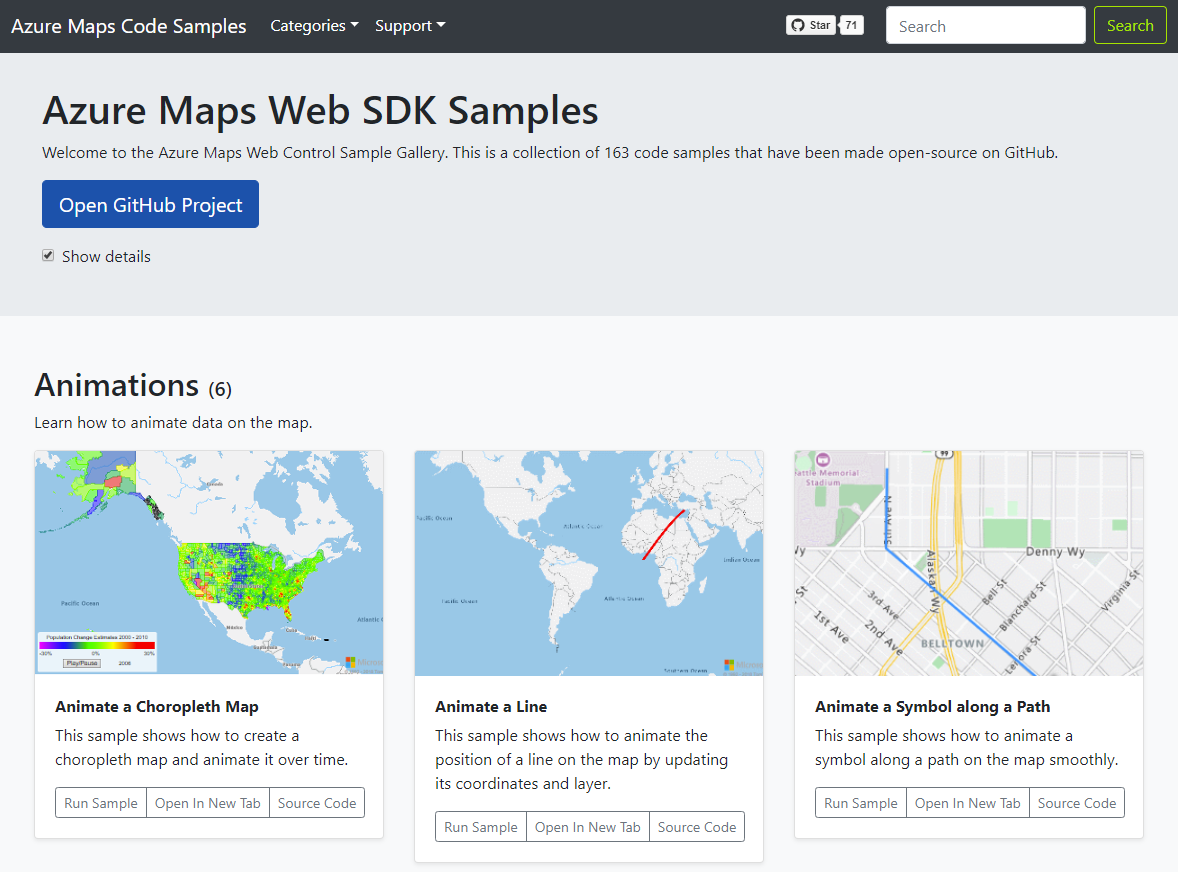
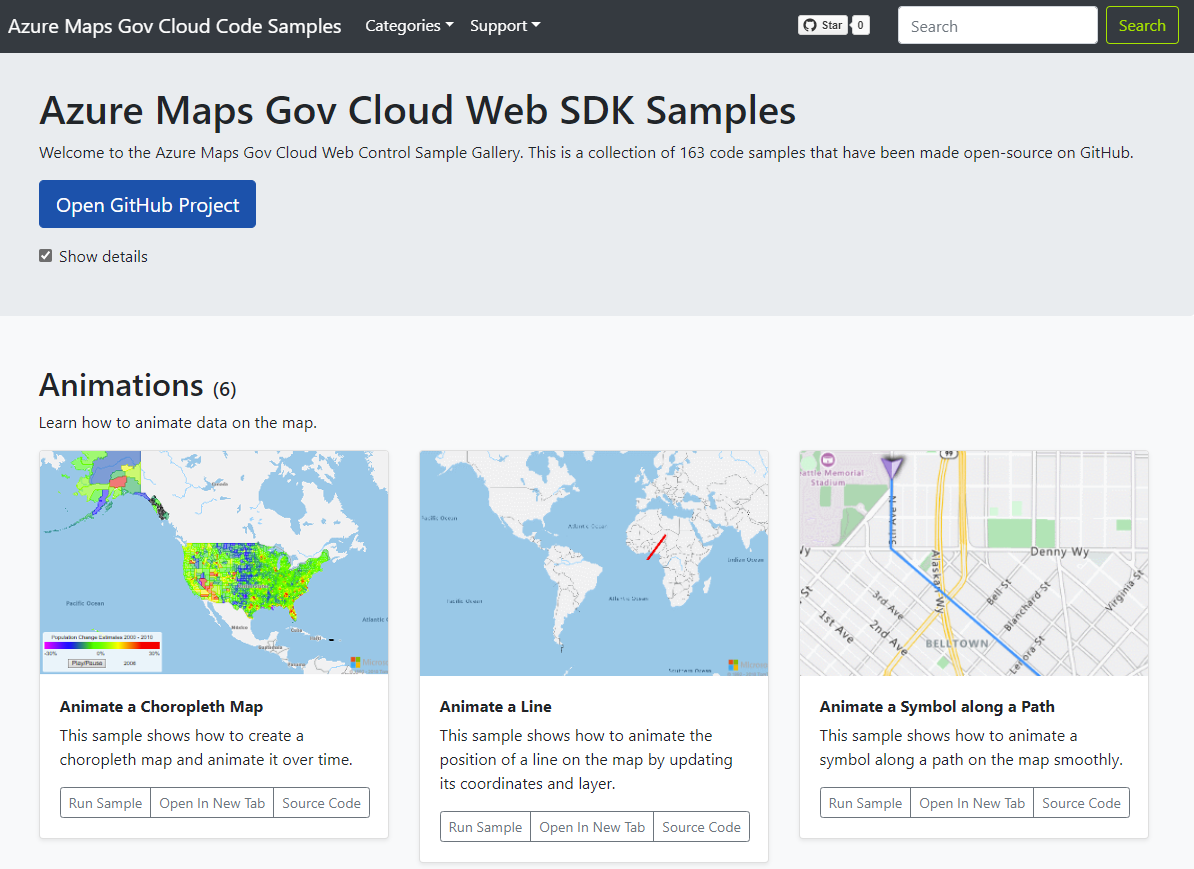
Update samples

diff --git a/AzureMapsCodeSamples/SiteResources/index_template.html b/AzureMapsCodeSamples/SiteResources/index_template.html
@@ -49,7 +49,8 @@
             <div class="container">
                 <h1 class="display-6">Azure Maps Gov Cloud Web SDK Samples</h1>
                 <p>
-                    Welcome to the Azure Maps Gov Cloud Web Control Sample Gallery. This is a collection of {NumberOfSamples} code samples that have been made open-source on GitHub.
+                    Welcome to the Azure Maps Gov Cloud Web Control Sample Gallery. This is a collection of {NumberOfSamples} code samples that have been made open-source on GitHub. 
+                    Code samples for the commercial version of Azure can be found <a href="https://aka.ms/AzureMapsSamples">here</a>.
                 </p>
                 <p><a class="btn btn-primary btn-lg" target="_blank" href="https://github.com/Azure-Samples/AzureMapsGovCloudCodeSamples" role="button">Open GitHub Project</a></p>
                 <p>

diff --git a/AzureMapsCodeSamples/index.html b/AzureMapsCodeSamples/index.html
@@ -72,7 +72,8 @@
             <div class="container">
                 <h1 class="display-6">Azure Maps Gov Cloud Web SDK Samples</h1>
                 <p>
-                    Welcome to the Azure Maps Gov Cloud Web Control Sample Gallery. This is a collection of 163 code samples that have been made open-source on GitHub.
+                    Welcome to the Azure Maps Gov Cloud Web Control Sample Gallery. This is a collection of 163 code samples that have been made open-source on GitHub. 
+                    Code samples for the commercial version of Azure can be found <a href="https://aka.ms/AzureMapsSamples">here</a>.
                 </p>
                 <p><a class="btn btn-primary btn-lg" target="_blank" href="https://github.com/Azure-Samples/AzureMapsGovCloudCodeSamples" role="button">Open GitHub Project</a></p>
                 <p>
